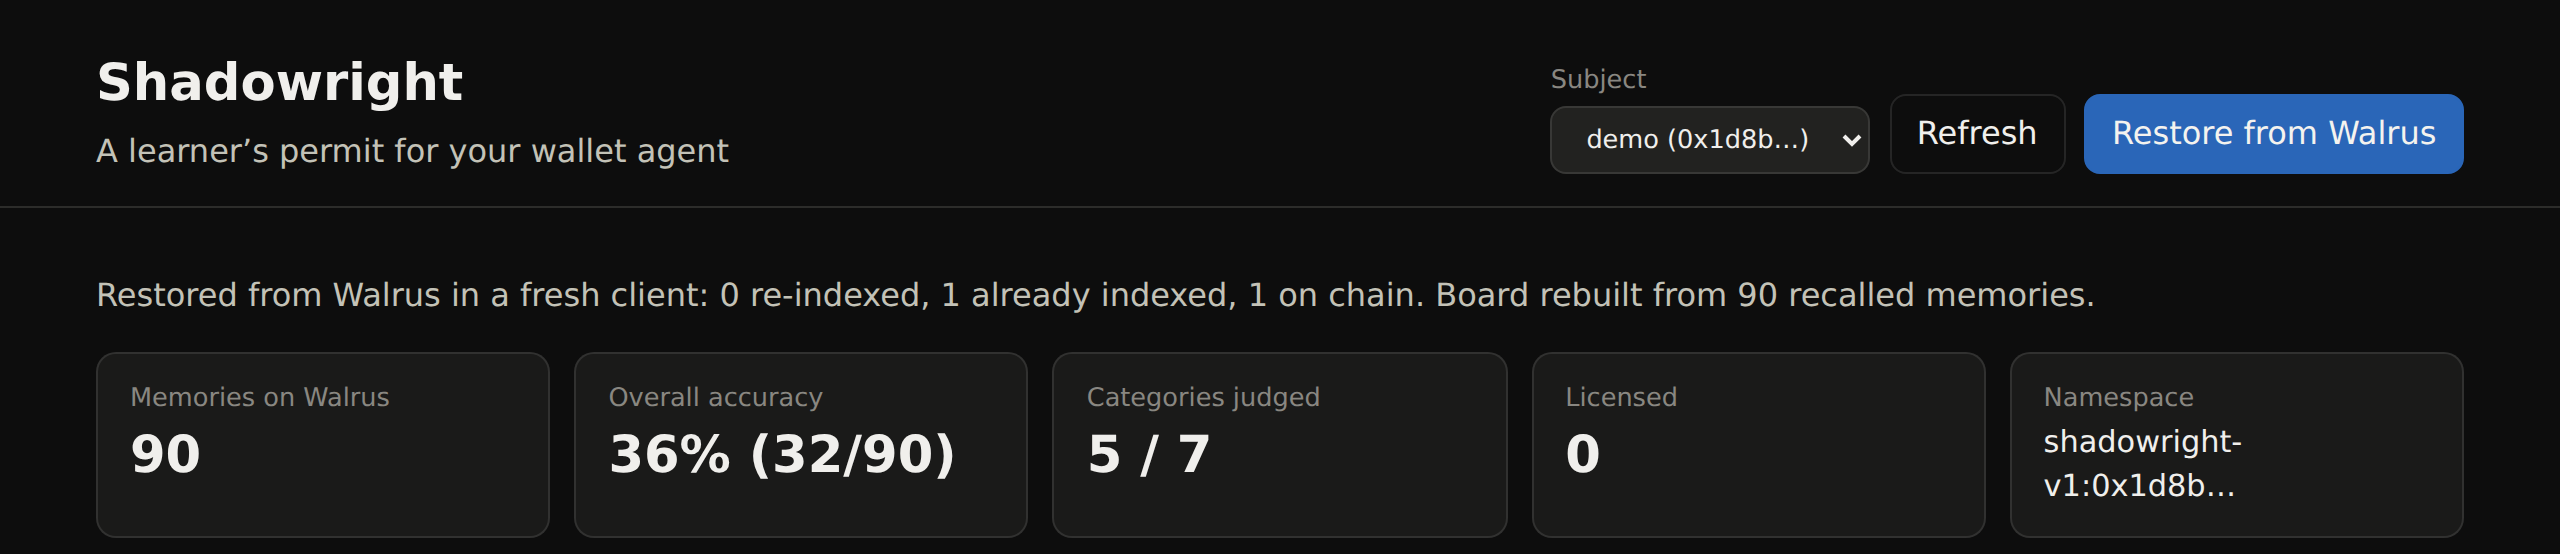
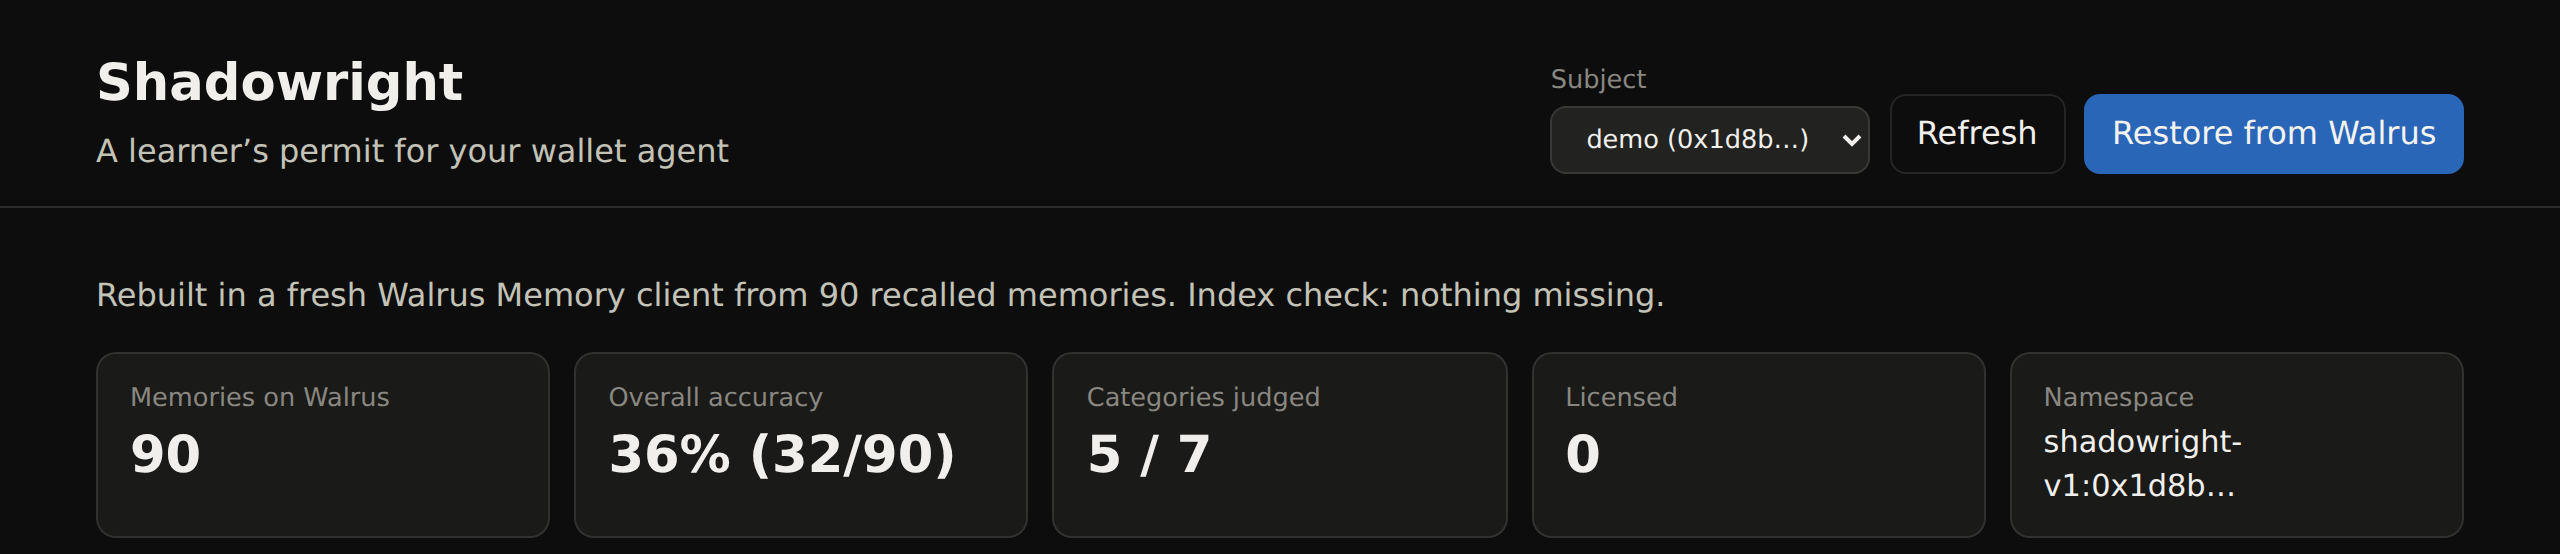
Board: restore message reports recalled memories, not the relayer page size
The relayer's restore call only lists a capped page of on-chain blobs per
owner (shared across namespaces, no cursor), so with 90 memories it now
reports total 1 while recall returns all 90. The status line shows the
recalled count and whether anything was missing from the index instead.

Changed region(s): [[0.0312, 0.491, 0.8125, 0.5523]]

diff --git a/web/app.js b/web/app.js
@@ -241,7 +241,7 @@ async function restore() {
     const view = await api(`/api/restore?${new URLSearchParams({ subject: subjectSelect.value })}`, { method: 'POST' });
     render(view);
     const r = view.restore;
-    setStatus(`Restored from Walrus in a fresh client: ${r.restored} re-indexed, ${r.skipped} already indexed, ${r.total} on chain. Board rebuilt from ${view.memories} recalled memories.`);
+    setStatus(`Rebuilt in a fresh Walrus Memory client from ${view.memories} recalled memories. Index check: ${r.restored ? `${r.restored} missing blobs re-indexed` : 'nothing missing'}${r.failed ? `, ${r.failed} unreadable` : ''}.`);
   } finally {
     button.disabled = false;
   }

diff --git a/docs/RUNLOG.md b/docs/RUNLOG.md
@@ -155,6 +155,11 @@ session opened with a vault top-up instead of a claim.
   memories and 31 correct, identical. The relayer's restore call reported 21 blobs for the
   namespace, all already indexed (`truncated: false`); its candidate list is capped per owner, as
   the SDK documents, while recall returned all 80.
+- 2026-10-27: with 90 memories the relayer's restore page now lists only 1 blob for the demo
+  namespace (0 for `shadowright-v1`), while `listNamespaces` reports 90 and 12 and recall returns
+  all of them. Same per-owner candidate cap, shared across namespaces, with no cursor (SDK 0.1.10
+  unchanged). The board's restore message now reports the recalled count and whether anything
+  was missing, not the relayer's page size.
 
 ### Operations
 
